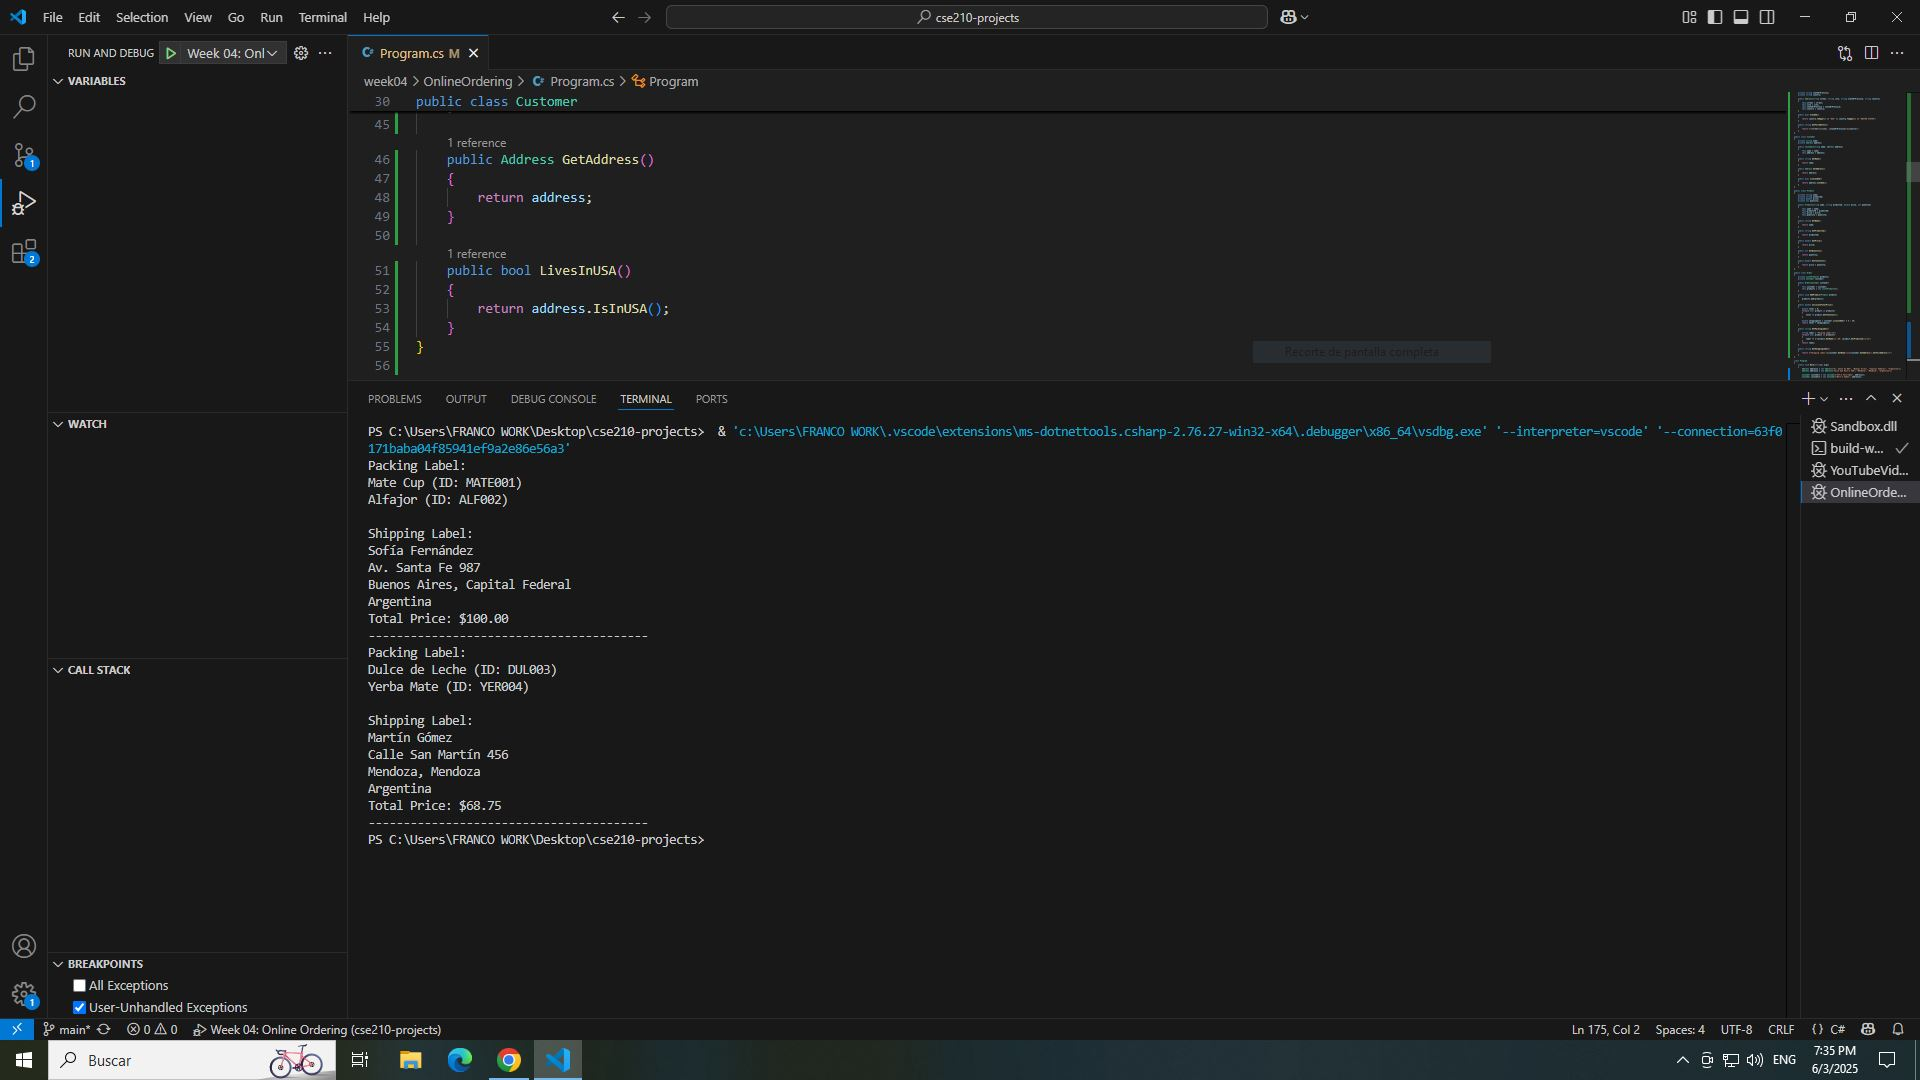
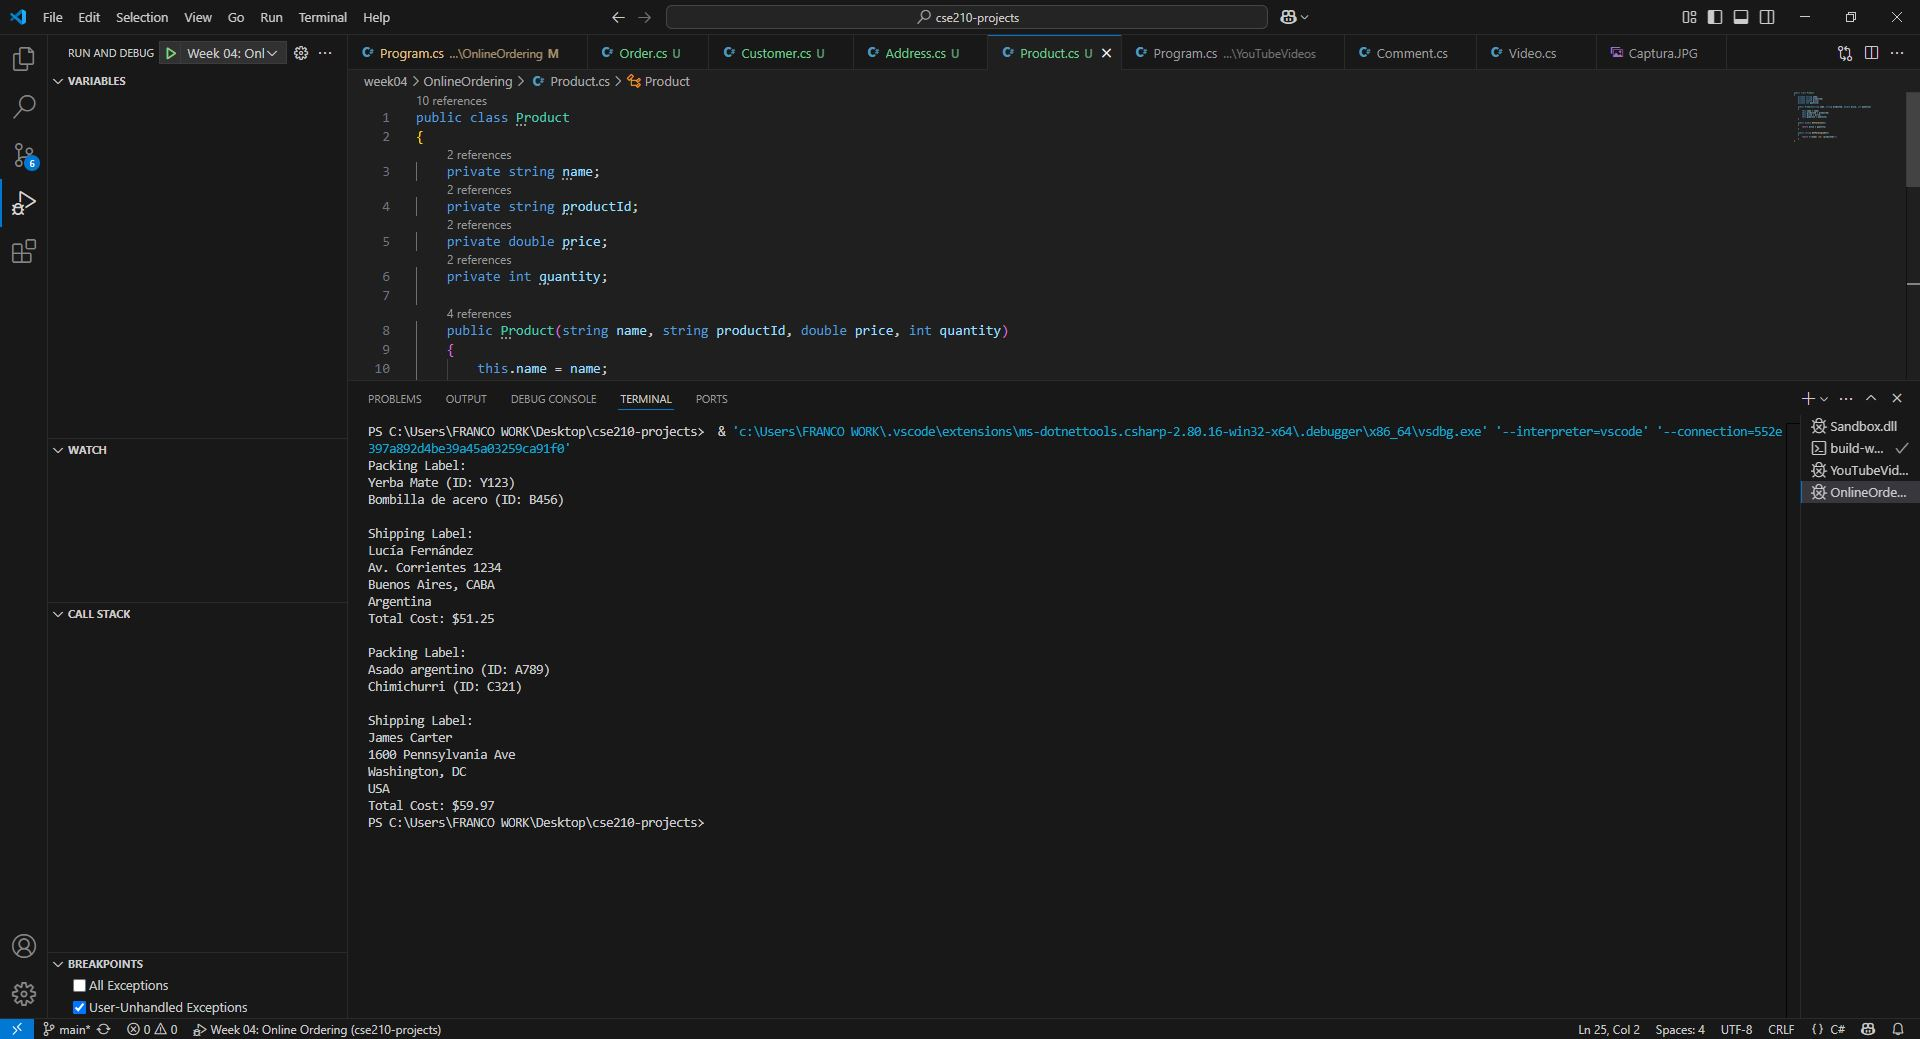
updated online ordering activity

diff --git a/week04/OnlineOrdering/Program.cs b/week04/OnlineOrdering/Program.cs
@@ -1,175 +1,34 @@
 using System;
-using System.Collections.Generic;
-
-public class Address
-{
-    private string street;
-    private string city;
-    private string stateOrProvince;
-    private string country;
-
-    public Address(string street, string city, string stateOrProvince, string country)
-    {
-        this.street = street;
-        this.city = city;
-        this.stateOrProvince = stateOrProvince;
-        this.country = country;
-    }
-
-    public bool IsInUSA()
-    {
-        return country.ToUpper() == "USA" || country.ToUpper() == "UNITED STATES";
-    }
-
-    public string GetFullAddress()
-    {
-        return $"{street}\n{city}, {stateOrProvince}\n{country}";
-    }
-}
-
-public class Customer
-{
-    private string name;
-    private Address address;
-
-    public Customer(string name, Address address)
-    {
-        this.name = name;
-        this.address = address;
-    }
-
-    public string GetName()
-    {
-        return name;
-    }
-
-    public Address GetAddress()
-    {
-        return address;
-    }
-
-    public bool LivesInUSA()
-    {
-        return address.IsInUSA();
-    }
-}
-
-public class Product
-{
-    private string name;
-    private string productId;
-    private double price;
-    private int quantity;
-
-    public Product(string name, string productId, double price, int quantity)
-    {
-        this.name = name;
-        this.productId = productId;
-        this.price = price;
-        this.quantity = quantity;
-    }
-
-    public string GetName()
-    {
-        return name;
-    }
-
-    public string GetProductId()
-    {
-        return productId;
-    }
-
-    public double GetPrice()
-    {
-        return price;
-    }
-
-    public int GetQuantity()
-    {
-        return quantity;
-    }
-
-    public double GetTotalCost()
-    {
-        return price * quantity;
-    }
-}
-
-public class Order
-{
-    private List<Product> products;
-    private Customer customer;
-
-    public Order(Customer customer)
-    {
-        this.customer = customer;
-        this.products = new List<Product>();
-    }
-
-    public void AddProduct(Product product)
-    {
-        products.Add(product);
-    }
-
-    public double CalculateTotalPrice()
-    {
-        double total = 0;
-        foreach (var product in products)
-        {
-            total += product.GetTotalCost();
-        }
-
-        double shippingCost = customer.LivesInUSA() ? 5 : 35;
-        return total + shippingCost;
-    }
-
-    public string GetPackingLabel()
-    {
-        string label = "Packing Label:\n";
-        foreach (var product in products)
-        {
-            label += $"{product.GetName()} (ID: {product.GetProductId()})\n";
-        }
-        return label;
-    }
-
-    public string GetShippingLabel()
-    {
-        return $"Shipping Label:\n{customer.GetName()}\n{customer.GetAddress().GetFullAddress()}";
-    }
-}
 
 class Program
 {
     static void Main(string[] args)
     {
-        Address address1 = new Address("Av. Santa Fe 987", "Buenos Aires", "Capital Federal", "Argentina");
-        Address address2 = new Address("Calle San Martín 456", "Mendoza", "Mendoza", "Argentina");
-
-        Customer customer1 = new Customer("Sofía Fernández", address1);
-        Customer customer2 = new Customer("Martín Gómez", address2);
-
-        Product prod1 = new Product("Mate Cup", "MATE001", 15.00, 2);
-        Product prod2 = new Product("Alfajor", "ALF002", 3.50, 10);
-        Product prod3 = new Product("Dulce de Leche", "DUL003", 7.25, 3);
-        Product prod4 = new Product("Yerba Mate", "YER004", 12.00, 1);
+        Address address1 = new Address("Av. Corrientes 1234", "Buenos Aires", "CABA", "Argentina");
+        Customer customer1 = new Customer("Lucía Fernández", address1);
 
         Order order1 = new Order(customer1);
-        order1.AddProduct(prod1);
-        order1.AddProduct(prod2);
+        order1.AddProduct(new Product("Yerba Mate", "Y123", 4.5, 2));
+        order1.AddProduct(new Product("Bombilla de acero", "B456", 7.25, 1));
+
+        Address address2 = new Address("1600 Pennsylvania Ave", "Washington", "DC", "USA");
+        Customer customer2 = new Customer("James Carter", address2);
 
         Order order2 = new Order(customer2);
-        order2.AddProduct(prod3);
-        order2.AddProduct(prod4);
+        order2.AddProduct(new Product("Asado argentino", "A789", 15.99, 3));
+        order2.AddProduct(new Product("Chimichurri", "C321", 3.5, 2));
 
-        Console.WriteLine(order1.GetPackingLabel());
-        Console.WriteLine(order1.GetShippingLabel());
-        Console.WriteLine($"Total Price: ${order1.CalculateTotalPrice():F2}");
-        Console.WriteLine(new string('-', 40));
+        DisplayOrder(order1);
+        Console.WriteLine();
+        DisplayOrder(order2);
+    }
 
-        Console.WriteLine(order2.GetPackingLabel());
-        Console.WriteLine(order2.GetShippingLabel());
-        Console.WriteLine($"Total Price: ${order2.CalculateTotalPrice():F2}");
-        Console.WriteLine(new string('-', 40));
+    static void DisplayOrder(Order order)
+    {
+        Console.WriteLine("Packing Label:");
+        Console.WriteLine(order.GetPackingLabel());
+        Console.WriteLine("Shipping Label:");
+        Console.WriteLine(order.GetShippingLabel());
+        Console.WriteLine($"Total Cost: ${order.GetTotalCost():0.00}");
     }
 }

diff --git a/week04/OnlineOrdering/Order.cs b/week04/OnlineOrdering/Order.cs
@@ -1,0 +1,44 @@
+using System.Collections.Generic;
+using System.Text;
+
+public class Order
+{
+    private List<Product> products = new List<Product>();
+    private Customer customer;
+
+    public Order(Customer customer)
+    {
+        this.customer = customer;
+    }
+
+    public void AddProduct(Product product)
+    {
+        products.Add(product);
+    }
+
+    public double GetTotalCost()
+    {
+        double total = 0;
+        foreach (Product product in products)
+        {
+            total += product.GetTotalCost();
+        }
+        total += customer.IsInUSA() ? 5 : 35;
+        return total;
+    }
+
+    public string GetPackingLabel()
+    {
+        StringBuilder sb = new StringBuilder();
+        foreach (Product product in products)
+        {
+            sb.AppendLine(product.GetPackingLabel());
+        }
+        return sb.ToString();
+    }
+
+    public string GetShippingLabel()
+    {
+        return customer.GetShippingLabel();
+    }
+}

diff --git a/week04/OnlineOrdering/Address.cs b/week04/OnlineOrdering/Address.cs
@@ -1,0 +1,25 @@
+public class Address
+{
+    private string street;
+    private string city;
+    private string stateOrProvince;
+    private string country;
+
+    public Address(string street, string city, string stateOrProvince, string country)
+    {
+        this.street = street;
+        this.city = city;
+        this.stateOrProvince = stateOrProvince;
+        this.country = country;
+    }
+
+    public bool IsInUSA()
+    {
+        return country.ToUpper() == "USA" || country.ToUpper() == "UNITED STATES";
+    }
+
+    public string GetAddressString()
+    {
+        return $"{street}\n{city}, {stateOrProvince}\n{country}";
+    }
+}

diff --git a/week04/OnlineOrdering/Product.cs b/week04/OnlineOrdering/Product.cs
@@ -1,0 +1,25 @@
+public class Product
+{
+    private string name;
+    private string productId;
+    private double price;
+    private int quantity;
+
+    public Product(string name, string productId, double price, int quantity)
+    {
+        this.name = name;
+        this.productId = productId;
+        this.price = price;
+        this.quantity = quantity;
+    }
+
+    public double GetTotalCost()
+    {
+        return price * quantity;
+    }
+
+    public string GetPackingLabel()
+    {
+        return $"{name} (ID: {productId})";
+    }
+}

diff --git a/week04/OnlineOrdering/Customer.cs b/week04/OnlineOrdering/Customer.cs
@@ -1,0 +1,21 @@
+public class Customer
+{
+    private string name;
+    private Address address;
+
+    public Customer(string name, Address address)
+    {
+        this.name = name;
+        this.address = address;
+    }
+
+    public bool IsInUSA()
+    {
+        return address.IsInUSA();
+    }
+
+    public string GetShippingLabel()
+    {
+        return $"{name}\n{address.GetAddressString()}";
+    }
+}
